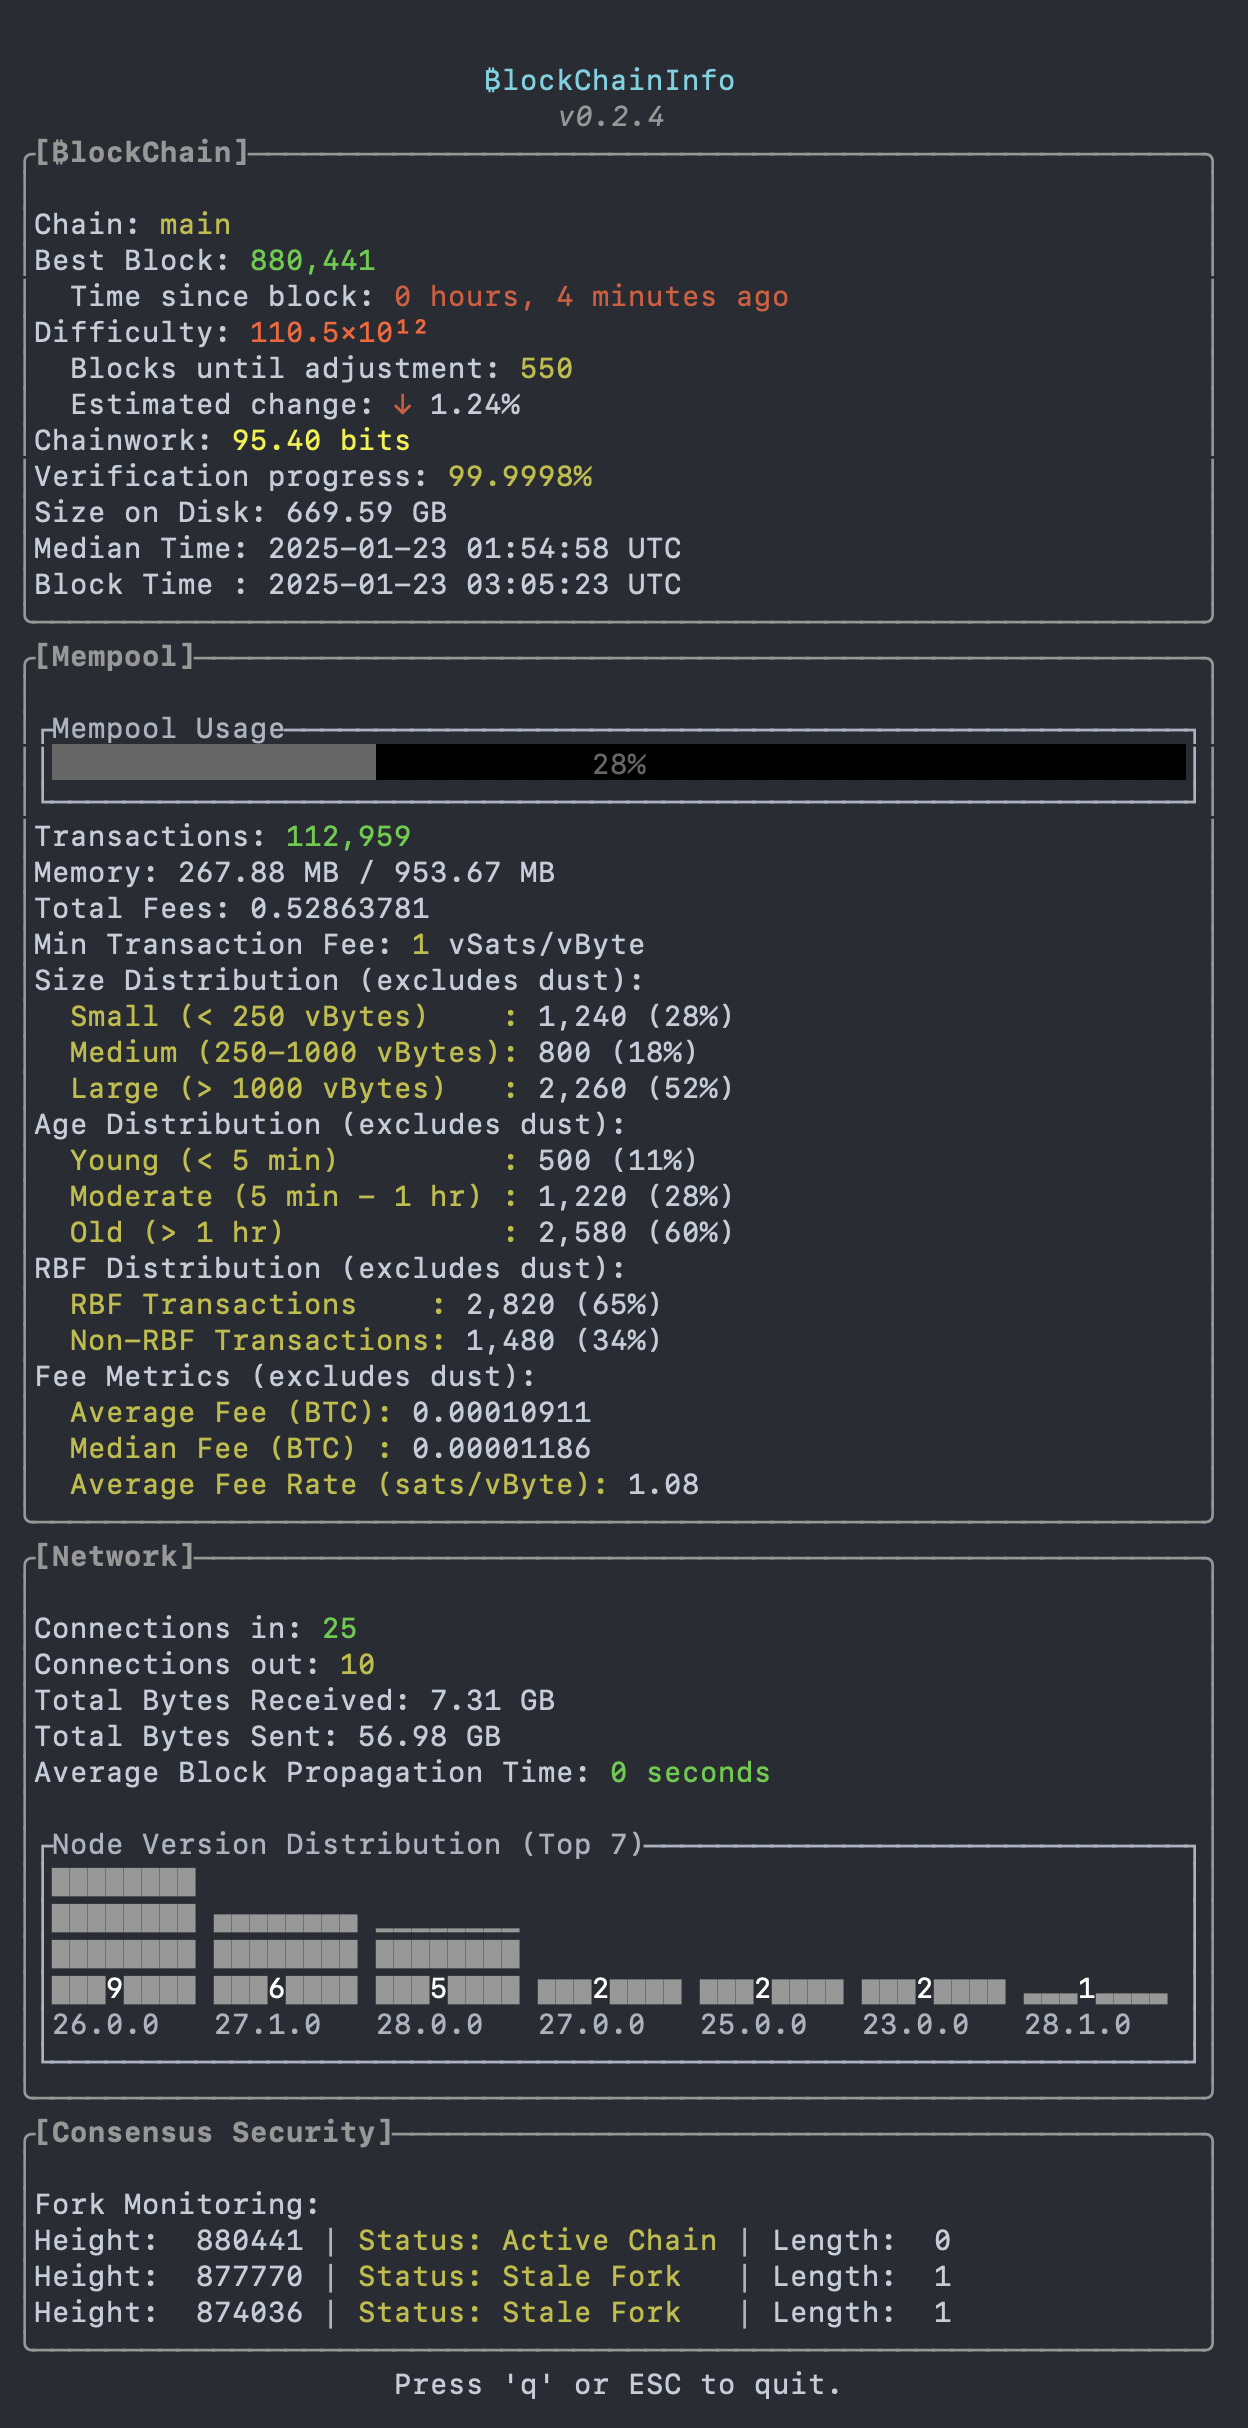
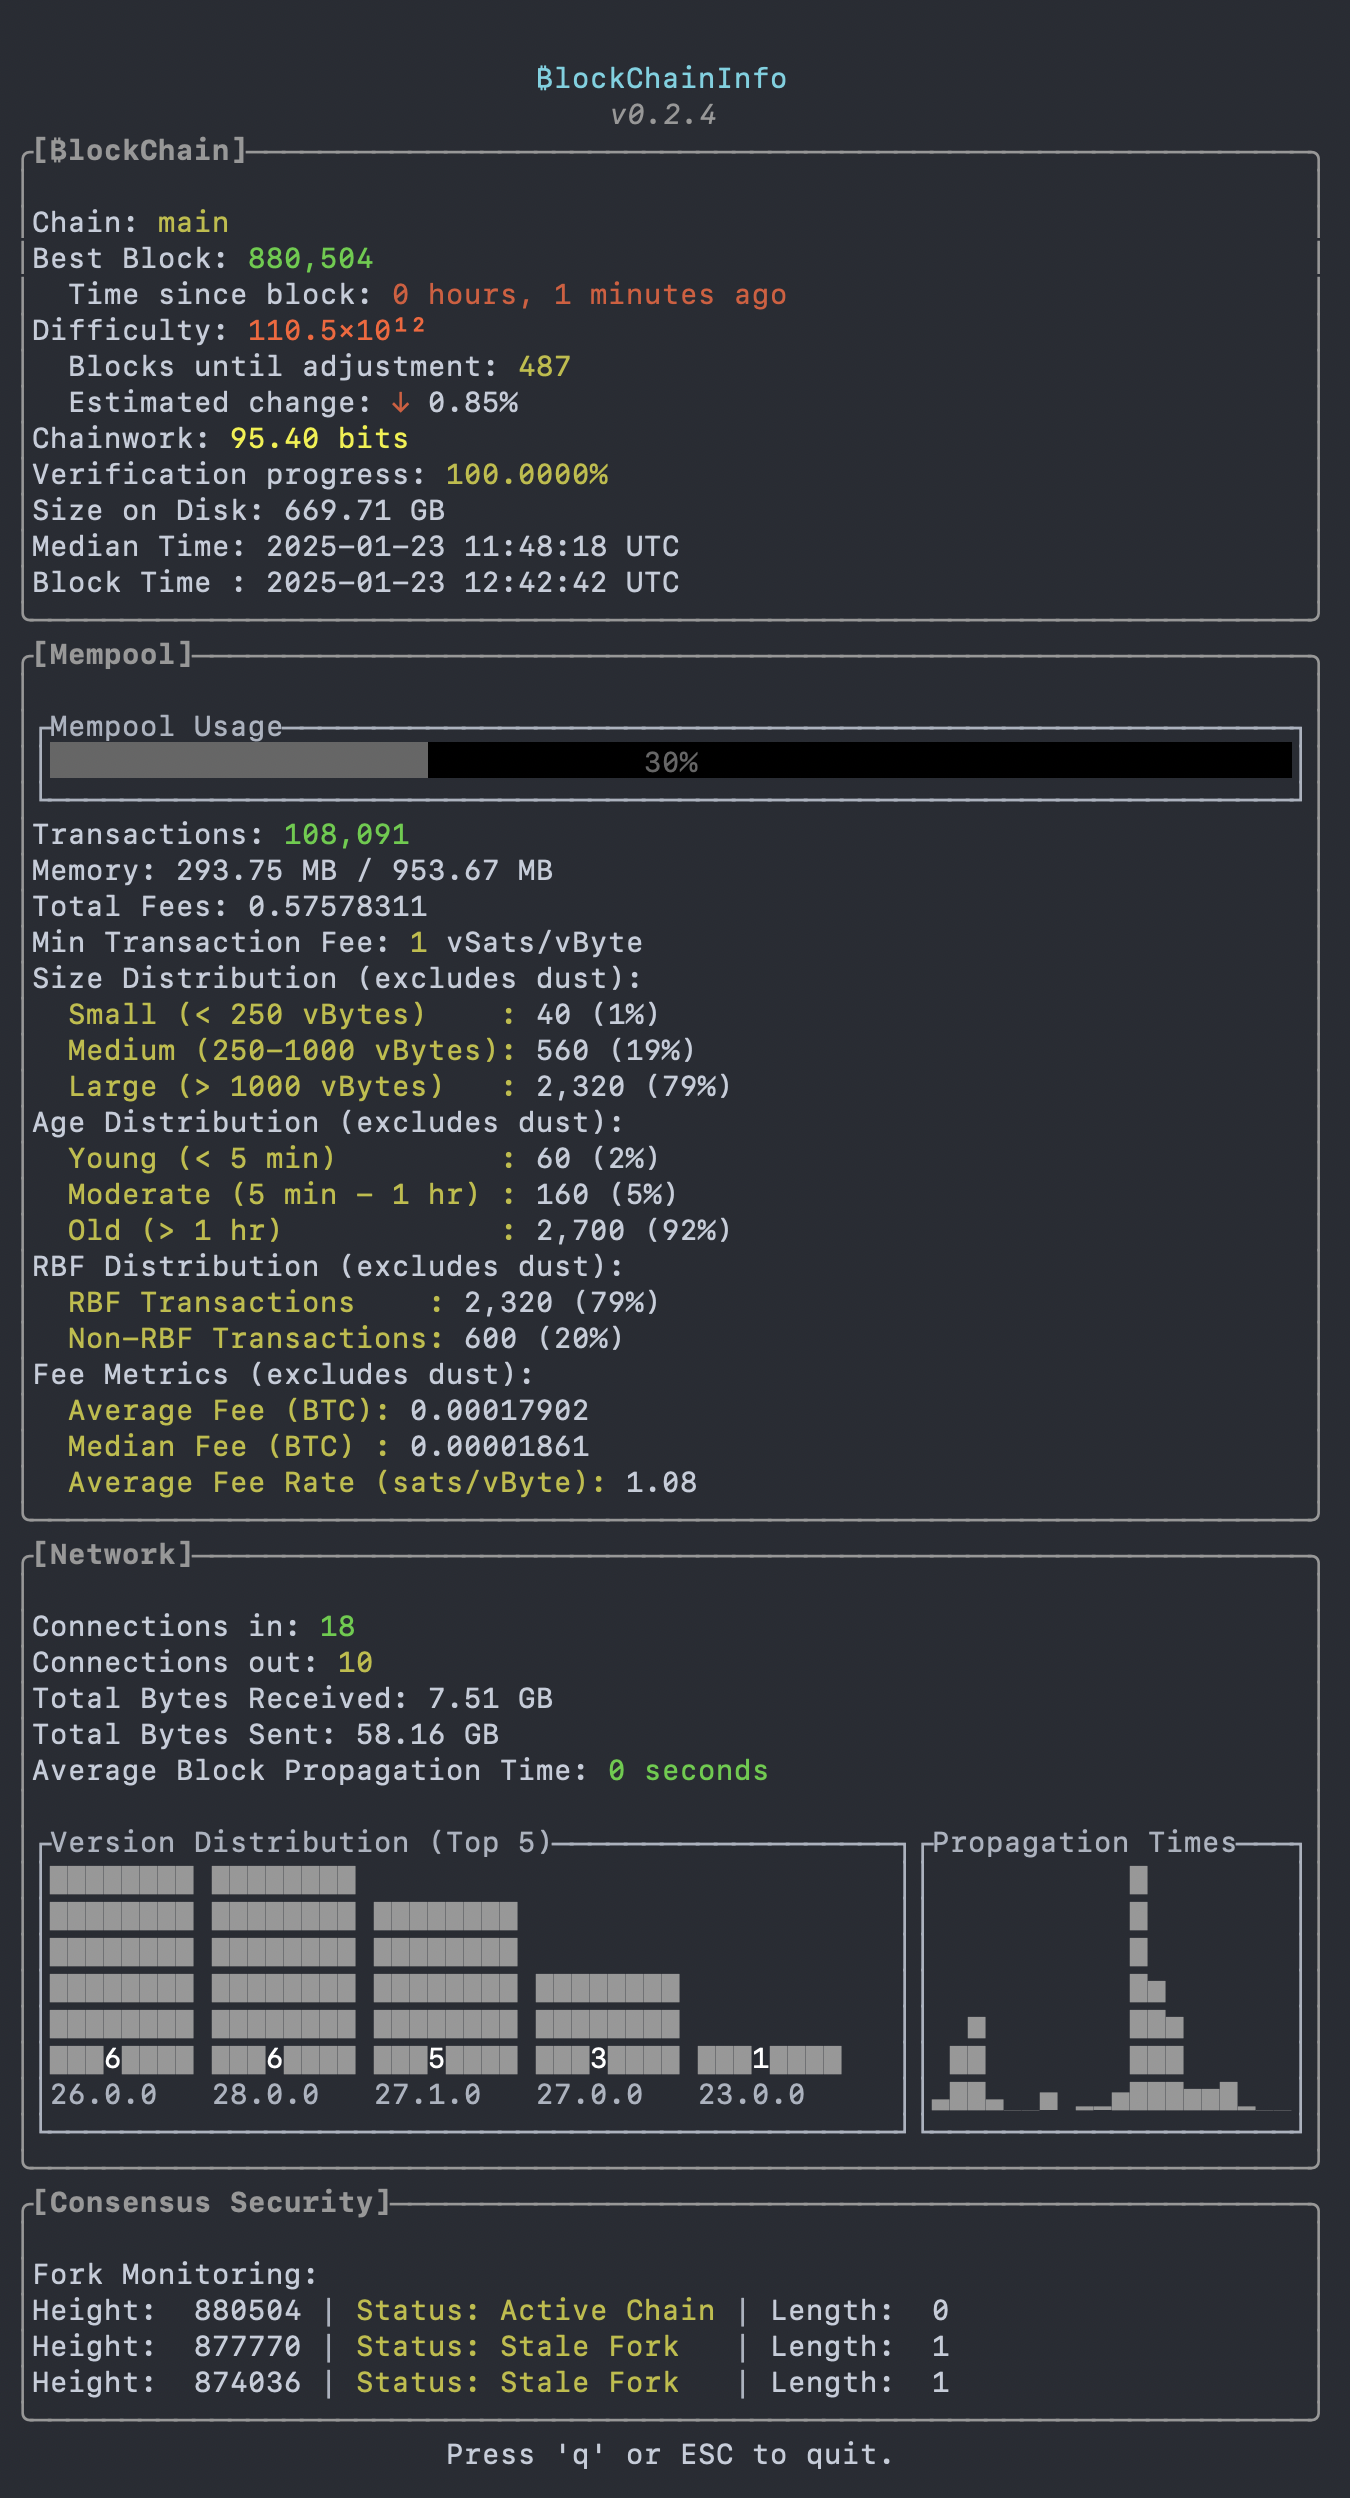
**Added Sparkline for Block Propagation Times** - Implemented a sparkline widget to display propagation times for the last 20 blocks. - Provides a visual representation of network connection history and health trends.

diff --git a/src/display/display_network_info.rs b/src/display/display_network_info.rs
@@ -6,13 +6,14 @@ use tui::{
     layout::{Constraint, Direction, Layout, Rect},
     style::{Color, Style},
     text::{Span, Spans},
-    widgets::{BarChart, Block, Borders, Paragraph},
+    widgets::{BarChart, Block, Borders, Paragraph, Sparkline},
     Frame,
 };
 use crate::models::network_info::NetworkInfo;
 use crate::models::network_totals::NetTotals;
 use crate::models::errors::MyError;
 use crate::utils::format_size;
+use std::collections::VecDeque;
 
 // Displays the network information in a `tui` terminal.
 pub fn display_network_info<B: Backend>(
@@ -20,7 +21,8 @@ pub fn display_network_info<B: Backend>(
     network_info: &NetworkInfo,
     net_totals: &NetTotals,
     version_counts: &Vec<(String, usize)>,
-    avg_block_propagate_time: i64,
+    avg_block_propagate_time: &i64,
+    propagation_times: &VecDeque<i64>,
     area: Rect,
 ) -> Result<(), MyError> {
     // Determine color based on average block propagation time.
@@ -33,7 +35,7 @@ pub fn display_network_info<B: Backend>(
     };
     let abpt_text = "seconds";
 
-    // Define layout with space for Node Version Distribution bar chart.
+    // Define layout with space for Node Version Distribution bar chart and sparkline.
     let chunks = Layout::default()
         .direction(Direction::Vertical)
         .margin(1)
@@ -41,7 +43,7 @@ pub fn display_network_info<B: Backend>(
             [
                 Constraint::Length(1),  // Header section.
                 Constraint::Length(6), // Network info section.
-                Constraint::Min(8),    // Bar chart section.
+                Constraint::Min(8),    // Bar chart and sparkline section.
             ]
             .as_ref(),
         )
@@ -97,10 +99,16 @@ pub fn display_network_info<B: Backend>(
         .block(Block::default().borders(Borders::NONE));
     frame.render_widget(network_paragraph, chunks[1]);
 
+    // Define sub-chunks for bar chart and sparkline.
+    let sub_chunks = Layout::default()
+        .direction(Direction::Horizontal)
+        .constraints([Constraint::Percentage(68), Constraint::Percentage(32)])
+        .split(chunks[2]);
+
     // Node Version Distribution Bar Chart.
     if !version_counts.is_empty() {
         // Take only the top 7 versions.
-        let limited_version_counts = version_counts.iter().take(7);
+        let limited_version_counts = version_counts.iter().take(5);
     
         // Convert limited version counts into BarChart format.
         let data: Vec<(&str, u64)> = limited_version_counts
@@ -111,7 +119,7 @@ pub fn display_network_info<B: Backend>(
         let barchart = BarChart::default()
             .block(
                 Block::default()
-                    .title("Node Version Distribution (Top 7)")
+                    .title("Version Distribution (Top 5)")
                     .borders(Borders::ALL),
             )
             .data(&data)
@@ -120,8 +128,28 @@ pub fn display_network_info<B: Backend>(
             .bar_style(Style::default().fg(Color::DarkGray))
             .value_style(Style::default().fg(Color::White));
     
-        // Render the BarChart in the appropriate chunk.
-        frame.render_widget(barchart, chunks[2]);
+        // Render the BarChart in the left sub-chunk.
+        frame.render_widget(barchart, sub_chunks[0]);
+    }
+
+    // Sparkline for block propagation times.
+    if !propagation_times.is_empty() {
+        // Bind the temporary vector to a variable for longer lifetime.
+        let propagation_data: Vec<u64> = propagation_times.iter().map(|&t| t.abs() as u64).collect();
+
+        let sparkline = Sparkline::default()
+            .block(
+                Block::default()
+                    .title("Propagation Times")
+                    .borders(Borders::ALL),
+            )
+            .data(&propagation_data) // Pass the reference to the bound variable.
+            .style(Style::default().fg(Color::DarkGray));
+
+        // Render the Sparkline in the right sub-chunk.
+        frame.render_widget(sparkline, sub_chunks[1]);
+    } else {
+        println!("Propagation times are empty. Sparkline won't render.");
     }
 
     Ok(())

diff --git a/src/main.rs b/src/main.rs
@@ -31,6 +31,7 @@ use std::io::{self, Stdout};
 use std::sync::Arc;
 use tokio::sync::Mutex as AsyncMutex;
 use models::mempool_info::MempoolDistribution;
+use std::collections::VecDeque;
 
 
 #[tokio::main]
@@ -78,6 +79,9 @@ async fn run_app<B: tui::backend::Backend>(
     config: &BitcoinRpcConfig,
 ) -> Result<(), MyError> {
     let distribution = Arc::new(AsyncMutex::new(MempoolDistribution::default()));
+    let mut last_known_block_number: u64 = 0;
+    let mut propagation_times: VecDeque<i64> = VecDeque::with_capacity(20);
+
     loop {
         // Fetch blockchain info first since `blocks` is needed for the next call.
         let blockchain_info = fetch_blockchain_info(&config.bitcoin_rpc).await?;
@@ -99,6 +103,13 @@ async fn run_app<B: tui::backend::Backend>(
 
         let version_counts = PeerInfo::aggregate_and_sort_versions(&peer_info);
         let avg_block_propagate_time = PeerInfo::calculate_block_propagation_time(&peer_info, blockchain_info.time, blockchain_info.blocks);
+        if blockchain_info.blocks != last_known_block_number {
+            if propagation_times.len() == 20 {
+                propagation_times.pop_front();
+            }
+            propagation_times.push_back(avg_block_propagate_time);
+            last_known_block_number = blockchain_info.blocks;
+        }
 
         tokio::spawn({
             let config_clone = config.bitcoin_rpc.clone();
@@ -192,7 +203,7 @@ async fn run_app<B: tui::backend::Backend>(
                     .add_modifier(Modifier::BOLD), 
             ));
             frame.render_widget(block_4, chunks[3]);
-            display_network_info(frame, &network_info, &net_totals, &version_counts, avg_block_propagate_time, chunks[3]).unwrap();
+            display_network_info(frame, &network_info, &net_totals, &version_counts, &avg_block_propagate_time, &propagation_times, chunks[3]).unwrap();
 
             // Block 5: Consensus Security.
             let block_5 = Block::default().borders(Borders::ALL)

diff --git a/src/display.rs b/src/display.rs
@@ -33,6 +33,7 @@ use crate::models::network_info::NetworkInfo;
 use crate::models::chaintips_info::ChainTip;
 use crate::models::network_totals::NetTotals;
 use crate::models::errors::MyError;
+use std::collections::VecDeque;
 
 // Displays the blockchain information.
 pub fn display_blockchain_info<B: Backend>(
@@ -60,11 +61,12 @@ pub fn display_network_info<B: Backend>(
     frame: &mut Frame<B>,
     network_info: &NetworkInfo,
     net_totals: &NetTotals,
-    version_counts: &Vec<(String, usize)>, 
-    avg_block_propagate_time: i64,
+    version_counts: &Vec<(String, usize)>,
+    avg_block_propagate_time: &i64, 
+    propagation_times: &VecDeque<i64>,
     area: Rect,
 ) -> Result<(), MyError> {
-    display_network_info::display_network_info(frame, network_info, net_totals, version_counts, avg_block_propagate_time, area)
+    display_network_info::display_network_info(frame, network_info, net_totals, version_counts, avg_block_propagate_time, propagation_times, area)
 }
 
 
